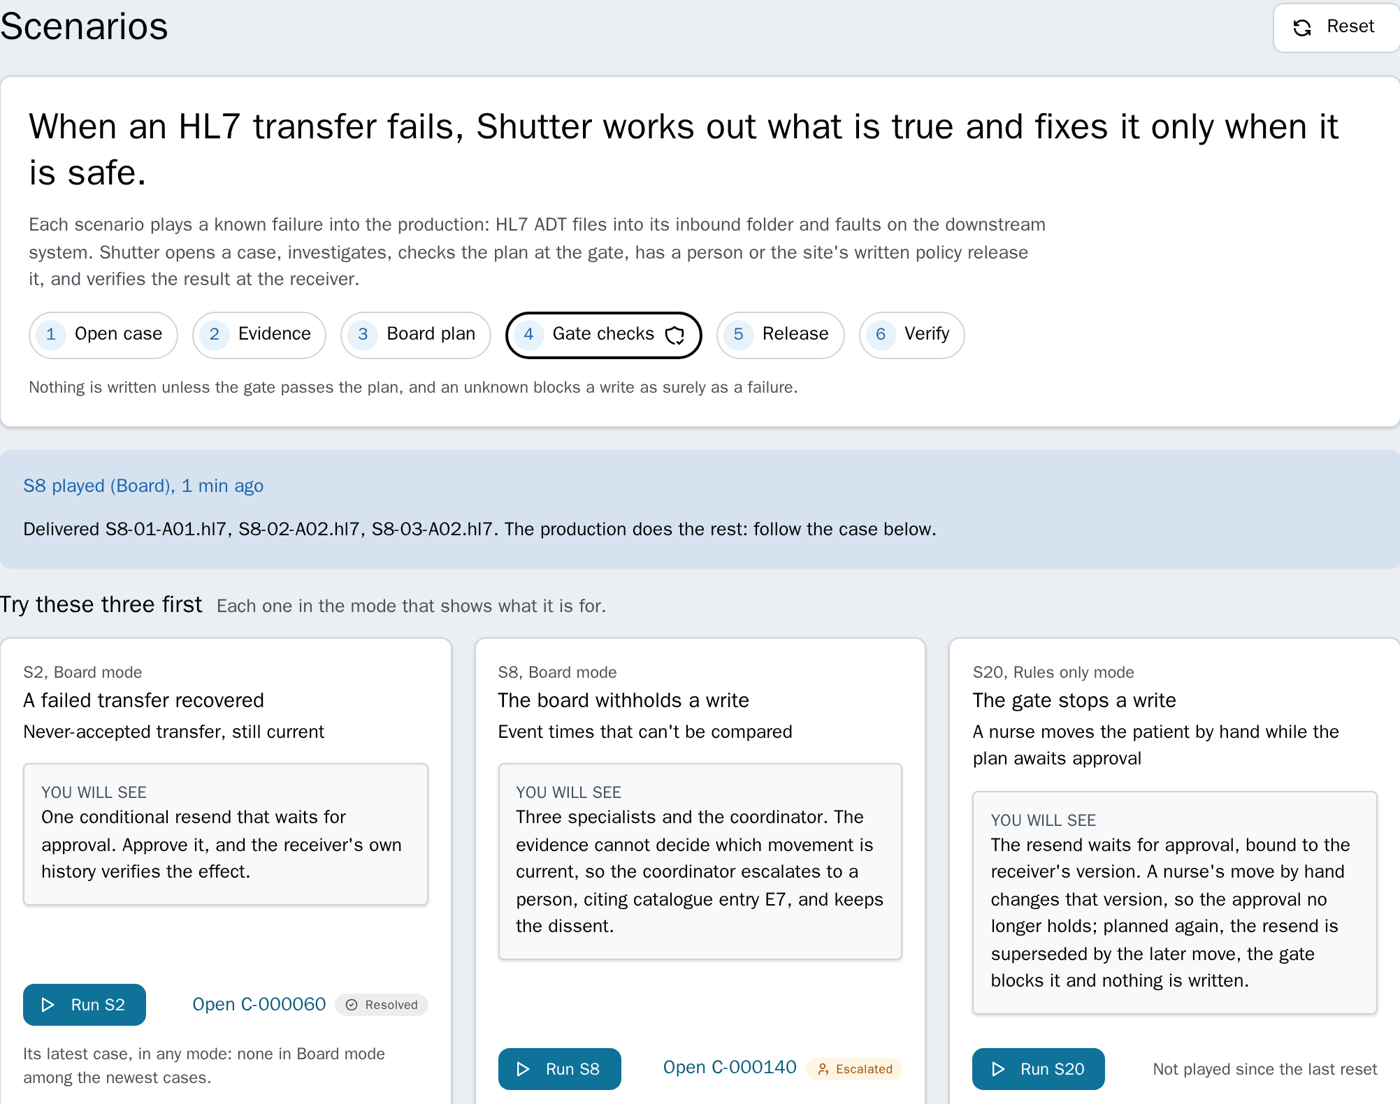
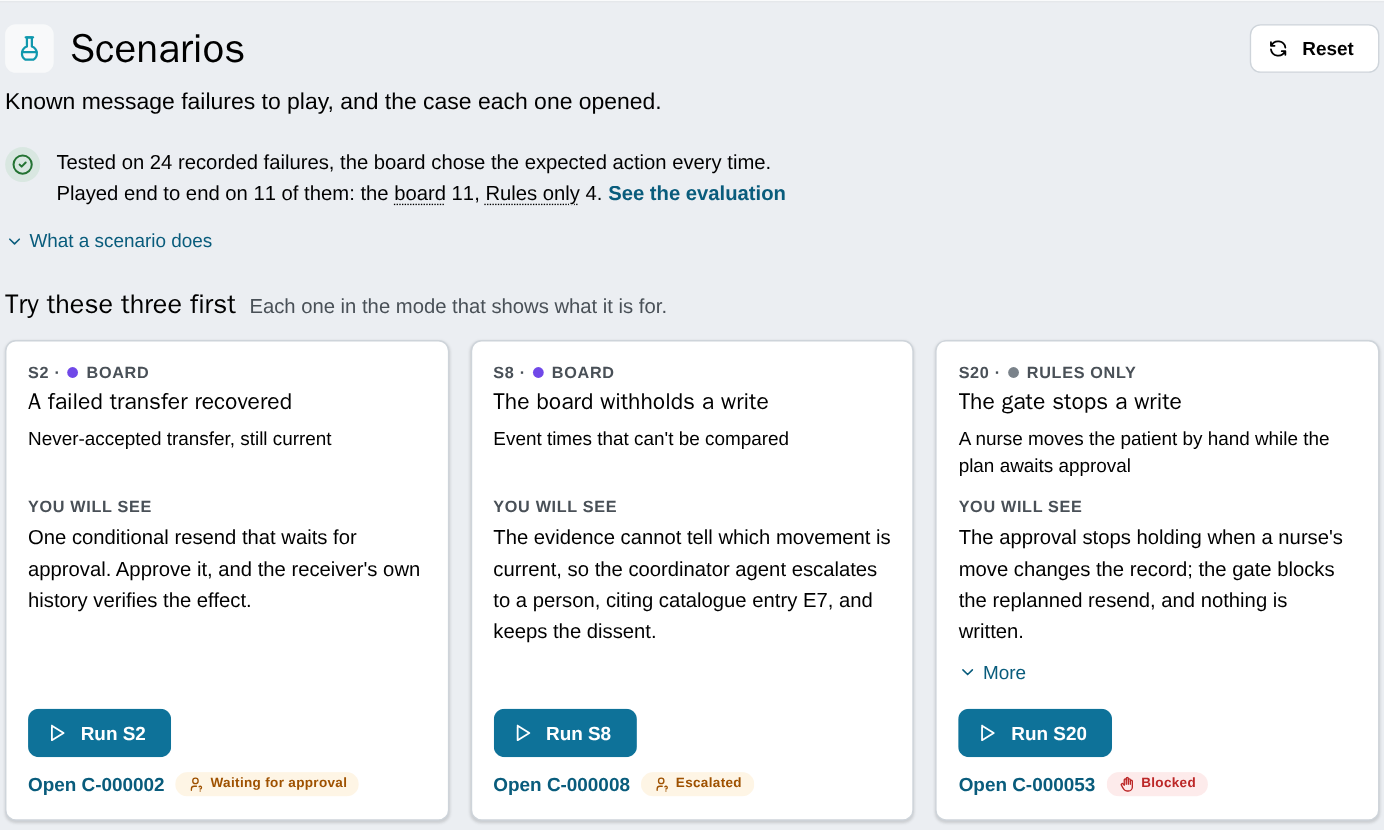
Home names S2 and then S8, as the Scenarios page and its path do; the path at the foot of the page is called what it now is, and the README's picture and test counts follow

diff --git a/web/src/features/home/HomePage.tsx b/web/src/features/home/HomePage.tsx
@@ -54,7 +54,7 @@ export default function HomePage() {
 
 /**
  * The way in for someone new. The public demo's role cannot run scenarios, since its hospital plays them by itself, so it
- * starts from the cases already there; everyone else starts from S8, the case the agents are there for.
+ * starts from the cases already there; everyone else starts from S2, which shows the whole path, and then S8, the case the agents are there for.
  */
 function FirstStep() {
   const can = useCan();
@@ -68,7 +68,7 @@ function FirstStep() {
         <Text maw="68ch">
           {hidden
             ? "This hospital's failures are already in Cases. Open one to see the evidence, the plan and who decided."
-            : 'Scenarios replay known failures, so you can follow one from the failed message to the verified fix. Start with S8, where a plain resend would move a patient back to the wrong ward.'}
+            : 'Scenarios replay known failures, so you can follow one from the failed message to the verified fix. Start with S2, then S8, where a plain resend would move a patient back to the wrong ward.'}
         </Text>
         <Group gap="xs">
           <Button component={Link} to={hidden ? '/cases' : '/scenarios'} mih={44}>

diff --git a/web/src/features/scenarios/ScenariosPage.trial.test.tsx b/web/src/features/scenarios/ScenariosPage.trial.test.tsx
@@ -45,7 +45,7 @@ function renderTrial(detail: DetailLevel = 'plain') {
 /** Waits for every part of the page that loads: the rows, the guided path, S8's cited entry. */
 async function loaded() {
   await screen.findByRole('button', { name: 'Run S2' });
-  await screen.findByRole('region', { name: 'Start here' });
+  await screen.findByRole('region', { name: 'Then follow this path' });
   await screen.findByText('citing catalogue entry E7,', { exact: false });
   const s5 = (await screen.findByRole('button', { name: 'Run S5' })).closest('tr')!;
   await within(s5).findByText('Delivered, verified');
@@ -64,7 +64,7 @@ describe('ScenariosPage in the trial', () => {
 
   it('lists the guided path as numbered steps, each a title, one sentence and its links, the rest behind More', async () => {
     renderTrial();
-    const card = await screen.findByRole('region', { name: 'Start here' });
+    const card = await screen.findByRole('region', { name: 'Then follow this path' });
     const steps = within(card).getAllByRole('listitem');
     expect(steps).toHaveLength(6);
     for (const [i, step] of steps.entries())

diff --git a/web/e2e/case.spec.ts b/web/e2e/case.spec.ts
@@ -14,9 +14,9 @@ const AS_DEMO = { as: 'demo' } as const;
 test.beforeEach(({ page }) => skipWelcome(page));
 
 test.describe('the guided path', () => {
-  test('leads from the Start here card to the held S2 case and its approval', async ({ page }) => {
+  test('leads from the path card to the held S2 case and its approval', async ({ page }) => {
     await signIn(page);
-    const card = page.getByRole('region', { name: 'Start here' });
+    const card = page.getByRole('region', { name: 'Then follow this path' });
     await expect(card).toBeVisible();
     for (const name of [
       'Case C-000002',
@@ -41,7 +41,7 @@ test.describe('the guided path', () => {
   test('opens the S8 comparison from the guide, behind why the board matters', async ({ page }) => {
     await signIn(page);
     await page
-      .getByRole('region', { name: 'Start here' })
+      .getByRole('region', { name: 'Then follow this path' })
       .getByRole('link', { name: 'Rules and board side by side' })
       .first()
       .click();

diff --git a/web/src/features/home/HomePage.test.tsx b/web/src/features/home/HomePage.test.tsx
@@ -69,14 +69,14 @@ describe('HomePage', () => {
     renderHome();
     const start = await screen.findByRole('link', { name: 'Open the scenarios' });
     expect(start).toHaveAttribute('href', '/scenarios');
-    expect(screen.getByText(/Start with S8/)).toBeInTheDocument();
+    expect(screen.getByText(/Start with S2, then S8/)).toBeInTheDocument();
   });
 
   it('starts the public demo, who cannot run scenarios, at the cases', async () => {
     renderHome({ ...ALL, configure: false, scenarios: false });
     const start = await screen.findByRole('link', { name: 'Open the cases' });
     expect(start).toHaveAttribute('href', '/cases');
-    expect(screen.queryByText(/Start with S8/)).not.toBeInTheDocument();
+    expect(screen.queryByText(/Start with S2, then S8/)).not.toBeInTheDocument();
   });
 
   it('counts the cases that need a person, in words', async () => {

diff --git a/web/src/features/scenarios/wordBudget.ts b/web/src/features/scenarios/wordBudget.ts
@@ -2,7 +2,7 @@
  * The page's word budget: the first layer's visible words in Plain, with Technical at most 1.5 times it (DESIGN.md
  * 1.2). The page spec asks for 1,300, but the content it keeps for each of the 26 rows (the id and title, the first
  * sentence in full, what should happen with its sentence, the recorded comparison, the latest case with its outcome
- * and mark) comes to about 1,330 words on its own; the whole page measured 1,923 in the trial (with Start here) and
+ * and mark) comes to about 1,330 words on its own; the whole page measured 1,923 in the trial (with the path) and
  * 1,750 outside it on 1 November 2026, against 2,893 before. This ceiling keeps that figure from growing.
  */
 export const PLAIN_BUDGET = 1950;

diff --git a/web/src/features/cases/case/S8Compare.tsx b/web/src/features/cases/case/S8Compare.tsx
@@ -168,7 +168,7 @@ function Pair({ rulesId, boardId, caseId }: { rulesId: string; boardId: string; 
 
 /**
  * S8 played by rules alone and by the board, side by side: what each did at the receiver, and the evidence both read.
- * On an S8 case's page; `?show=compare` (the demo's Start here) scrolls to it.
+ * On an S8 case's page; `?show=compare` (the demo's path through the recorded cases) scrolls to it.
  */
 export function S8Compare({ caseId, focus }: { caseId: string; focus: boolean }) {
   const cases = useCases({ scenario: 'S8', limit: 50 });

diff --git a/web/src/features/scenarios/ScenariosPage.test.tsx b/web/src/features/scenarios/ScenariosPage.test.tsx
@@ -222,7 +222,7 @@ describe('ScenariosPage', () => {
   it('shows no guided path outside the demo: an instance has its own cases', async () => {
     renderScenarios();
     expect(await screen.findByRole('button', { name: 'Run S2' })).toBeInTheDocument();
-    expect(screen.queryByRole('region', { name: 'Start here' })).not.toBeInTheDocument();
+    expect(screen.queryByRole('region', { name: 'Then follow this path' })).not.toBeInTheDocument();
   });
 
   it('leads with the induction prompt on an instance running the shipped profile', async () => {

diff --git a/web/e2e/incidents.spec.ts b/web/e2e/incidents.spec.ts
@@ -14,7 +14,7 @@ test.describe('the guided path', () => {
   test('leads to the outage incident', async ({ page }) => {
     await signIn(page);
     await page
-      .getByRole('region', { name: 'Start here' })
+      .getByRole('region', { name: 'Then follow this path' })
       .getByRole('link', { name: 'Incident I-000001', exact: true })
       .click();
     await expect(page.getByRole('heading', { name: 'Incident I-000001', exact: true })).toBeVisible();

diff --git a/web/e2e/scenarios.spec.ts b/web/e2e/scenarios.spec.ts
@@ -60,7 +60,7 @@ test.describe('the page at 1280 px @scenarios', () => {
     page,
   }) => {
     await go(page, '/scenarios');
-    const card = page.getByRole('region', { name: 'Start here' });
+    const card = page.getByRole('region', { name: 'Then follow this path' });
     await expect(card.getByRole('listitem')).toHaveCount(6);
     for (const name of [
       'Case C-000002',

diff --git a/web/src/features/scenarios/StartHere.tsx b/web/src/features/scenarios/StartHere.tsx
@@ -119,7 +119,7 @@ export function StartHere() {
       <Stack gap="sm">
         <Stack gap={2}>
           <Title order={2} id="start-here-title">
-            Start here
+            Then follow this path
           </Title>
           <Text size="md" c="dimmed" maw="68ch">
             A short path through the recorded cases. Approve, escalate and close replay here; nothing leaves

diff --git a/README.md b/README.md
@@ -130,7 +130,7 @@ The mode chooses who proposes the plan; the gate and the rehearsal are the same 
 
 ## What to look at
 
-![The Scenarios page: six steps and three scenarios to try first](https://raw.githubusercontent.com/MxSalata/shutter/main/docs/readme/images/scenarios-start.png)
+![The Scenarios page: the evidence, then three scenarios to try first](https://raw.githubusercontent.com/MxSalata/shutter/main/docs/readme/images/scenarios-start.png)
 
 - **S2, a transfer that never arrived.** The gate passes the board's resend, the receiver's dry run says it would apply, and the approval waits as a Workflow task. "Acknowledged" is never "Verified". The web app's **Approve plan** completes that same `EnsLib.Workflow` task as the signed-in approver; from the IRIS Workflow inbox, signed in to the portal as `approver`, press **Accept**, then copy the plan digest from the task's message (it is **Plan digest** on the case page too) into the task's `PlanDigest` field.
 
@@ -257,7 +257,7 @@ Tokens and cost by board member, model and mode, in SQL: [docs/readme/running.md
 - **On a real IRIS, every push to `main` that changes code:** the full install on IRIS for Health Community 2026.2, the receiver's 37 contract tests, 256 unit tests (test methods in `tests/unit`; 8 more run only on an AI Hub build) and 26 scenarios end to end through the REST API, one through the demo hospital's production.
 - **The approval boundary, attacked over HTTP:** an approval naming another plan or a stale version (409), an operator's approval (403), one approval sent twice (one write), a Workflow inbox approval with an empty or another digest (blocked, no write), the receiver changed after approval (S20, no write), and a resend of a delivery the receiver already holds (S3, no write).
 - **Privacy, and a question that tries to act:** [evaluation.md](https://github.com/MxSalata/shutter/blob/main/docs/readme/evaluation.md#what-the-agents-see-and-a-question-that-tries-to-act).
-- **The web app:** 1280 component and 655 browser tests (`npm test`, `npm run test:e2e`), axe-core on 67 screens and states in 5 appearances.
+- **The web app:** 1292 component and 677 browser tests (`npm test`, `npm run test:e2e`), axe-core on 69 screens and states in 5 appearances.
 - **The AI Hub module:** CI can't download an Early Access build, so it builds the core on the public image. The AI Hub module is proven by:
   - fresh clones installed with `install.sh` on builds 109 and 154, each Doctor clean, the Second Parser running ([receipt on 109](https://github.com/MxSalata/shutter/blob/main/docs/readme/receipt-109.md), [receipt on 154](https://github.com/MxSalata/shutter/blob/main/docs/readme/receipt.md));
   - every scenario on 109, 29 plays across three modes (15 in Board, 12 in Site policy, 2 in Rules only);
